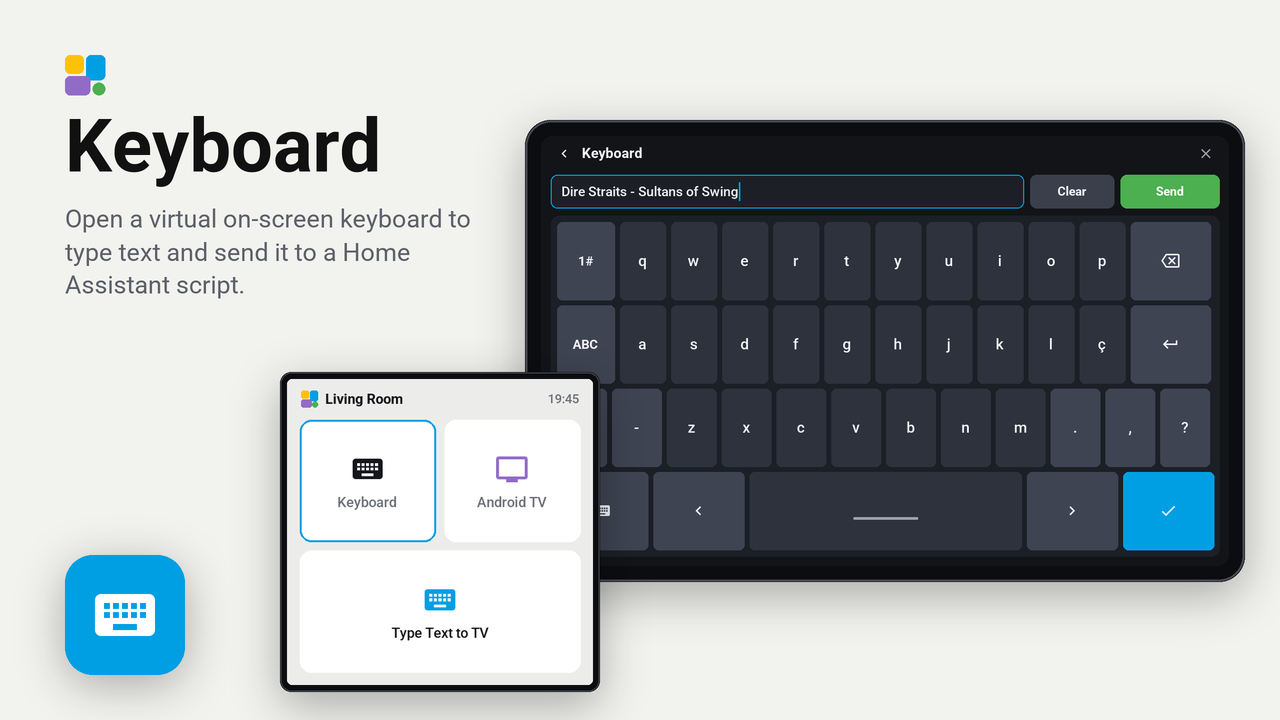
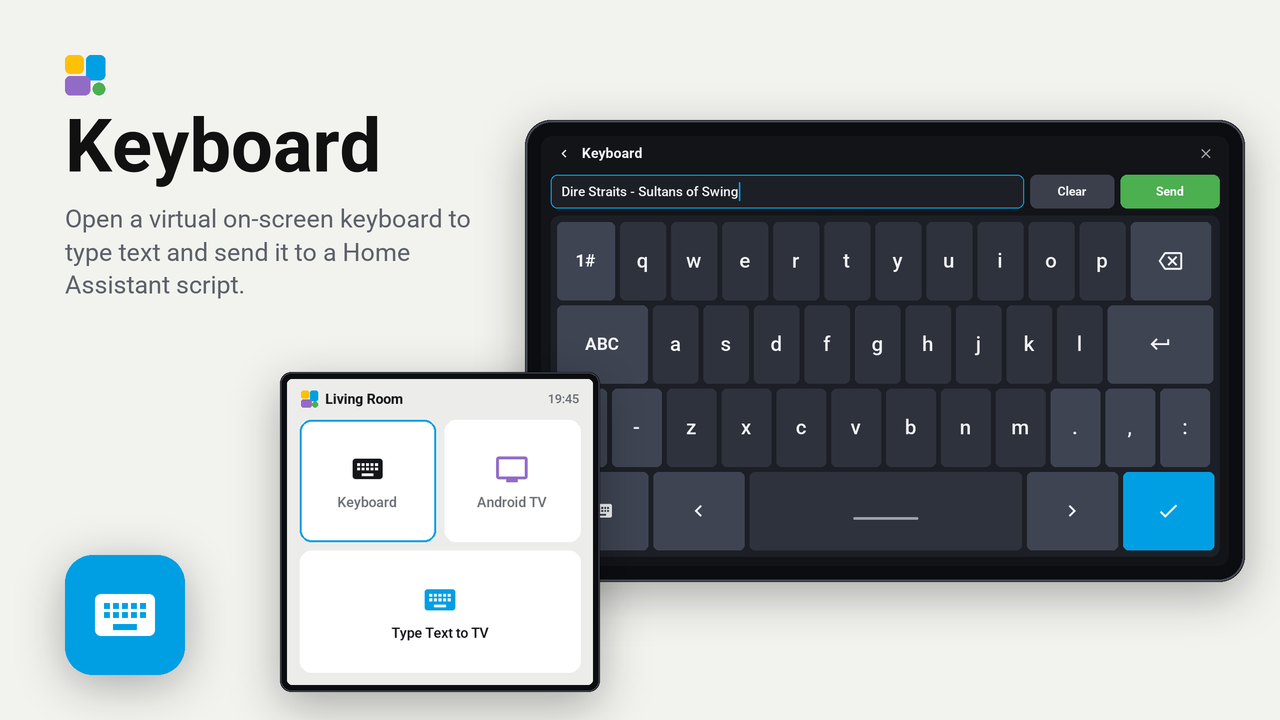
Switch keyboard layout to standard EN-US and update store.png with 2x key labels

diff --git a/components/keyboard/keyboard.cpp b/components/keyboard/keyboard.cpp
@@ -29,26 +29,26 @@ constexpr int KB_CTRL_REPEAT =
 constexpr int KB_KEY =
     LV_BUTTONMATRIX_CTRL_POPOVER;
 
-// Lowercase QWERTY button map (12 + 12 + 12 + 5 = 41 buttons).
+// Standard EN-US lowercase QWERTY button map (12 + 11 + 12 + 5 = 40 buttons).
 const char *const KB_MAP_LC[] = {
     "1#", "q", "w", "e", "r", "t", "y", "u", "i", "o", "p", MDI_BACKSPACE, "\n",
-    "ABC", "a", "s", "d", "f", "g", "h", "j", "k", "l", "ç", MDI_RETURN, "\n",
-    "_", "-", "z", "x", "c", "v", "b", "n", "m", ".", ",", "?", "\n",
+    "ABC", "a", "s", "d", "f", "g", "h", "j", "k", "l", MDI_RETURN, "\n",
+    "_", "-", "z", "x", "c", "v", "b", "n", "m", ".", ",", ":", "\n",
     MDI_KEYBOARD, MDI_LEFT, " ", MDI_RIGHT, MDI_CHECK, ""
 };
 
-// Uppercase QWERTY button map (12 + 12 + 12 + 5 = 41 buttons).
+// Standard EN-US uppercase QWERTY button map (12 + 11 + 12 + 5 = 40 buttons).
 const char *const KB_MAP_UC[] = {
     "1#", "Q", "W", "E", "R", "T", "Y", "U", "I", "O", "P", MDI_BACKSPACE, "\n",
-    "abc", "A", "S", "D", "F", "G", "H", "J", "K", "L", "Ç", MDI_RETURN, "\n",
-    "_", "-", "Z", "X", "C", "V", "B", "N", "M", ".", ",", "?", "\n",
+    "abc", "A", "S", "D", "F", "G", "H", "J", "K", "L", MDI_RETURN, "\n",
+    "_", "-", "Z", "X", "C", "V", "B", "N", "M", ".", ",", ":", "\n",
     MDI_KEYBOARD, MDI_LEFT, " ", MDI_RIGHT, MDI_CHECK, ""
 };
 
-// Control flags for the lowercase and uppercase maps.
+// Control flags for the EN-US lowercase and uppercase maps (12 + 11 + 12 + 5 = 40 buttons).
 const lv_buttonmatrix_ctrl_t KB_CTRL_ALPHA[] = {
     ctrl(KB_CTRL_MODE | 5), ctrl(KB_KEY | 4), ctrl(KB_KEY | 4), ctrl(KB_KEY | 4), ctrl(KB_KEY | 4), ctrl(KB_KEY | 4), ctrl(KB_KEY | 4), ctrl(KB_KEY | 4), ctrl(KB_KEY | 4), ctrl(KB_KEY | 4), ctrl(KB_KEY | 4), ctrl(KB_CTRL_REPEAT | 7),
-    ctrl(KB_CTRL_MODE | 5), ctrl(KB_KEY | 4), ctrl(KB_KEY | 4), ctrl(KB_KEY | 4), ctrl(KB_KEY | 4), ctrl(KB_KEY | 4), ctrl(KB_KEY | 4), ctrl(KB_KEY | 4), ctrl(KB_KEY | 4), ctrl(KB_KEY | 4), ctrl(KB_KEY | 4), ctrl(KB_CTRL_MODE | 7),
+    ctrl(KB_CTRL_MODE | 6), ctrl(KB_KEY | 3), ctrl(KB_KEY | 3), ctrl(KB_KEY | 3), ctrl(KB_KEY | 3), ctrl(KB_KEY | 3), ctrl(KB_KEY | 3), ctrl(KB_KEY | 3), ctrl(KB_KEY | 3), ctrl(KB_KEY | 3), ctrl(KB_CTRL_MODE | 7),
     ctrl(KB_CTRL_REPEAT | 1), ctrl(KB_CTRL_REPEAT | 1), ctrl(KB_KEY | 1), ctrl(KB_KEY | 1), ctrl(KB_KEY | 1), ctrl(KB_KEY | 1), ctrl(KB_KEY | 1), ctrl(KB_KEY | 1), ctrl(KB_KEY | 1), ctrl(KB_CTRL_REPEAT | 1), ctrl(KB_CTRL_REPEAT | 1), ctrl(KB_CTRL_REPEAT | 1),
     ctrl(KB_CTRL_MODE | 2), ctrl(KB_CTRL_REPEAT | 2), ctrl(6), ctrl(KB_CTRL_REPEAT | 2), ctrl(KB_CTRL_MODE | 2)
 };
@@ -56,8 +56,8 @@ const lv_buttonmatrix_ctrl_t KB_CTRL_ALPHA[] = {
 // Numbers and special symbols button map (11 + 12 + 12 + 5 = 40 buttons).
 const char *const KB_MAP_SPEC[] = {
     "1", "2", "3", "4", "5", "6", "7", "8", "9", "0", MDI_BACKSPACE, "\n",
-    "abc", "+", "&", "/", "*", "=", "%", "!", "?", "#", ":", ";", "\n",
-    "\\", "@", "$", "(", ")", "{", "}", "[", "]", "<", ">", "\"", "\n",
+    "abc", "+", "&", "/", "*", "=", "%", "!", "?", "#", "<", ">", "\n",
+    "\\", "@", "$", "(", ")", "{", "}", "[", "]", ";", "\"", "'", "\n",
     MDI_KEYBOARD, MDI_LEFT, " ", MDI_RIGHT, MDI_CHECK, ""
 };
 
@@ -186,7 +186,8 @@ void KeyboardTile::create(const tessera::TileContext &c) {
   lv_obj_set_style_text_align(icon_label_, LV_TEXT_ALIGN_CENTER, 0);
 
   // Render tile label below the icon.
-  text_label_ = ui::label(c.parent, Font::BODY, theme::MUTED);
+  Font lbl_font = (height_ >= ui::px(140)) ? Font::TITLE : Font::BODY;
+  text_label_ = ui::label(c.parent, lbl_font, theme::MUTED);
   std::string name = c.name && c.name[0] ? c.name : plugin_->text("tile_name");
   if (name.empty()) name = "Keyboard";
   ui::set_text(text_label_, name);
@@ -194,7 +195,7 @@ void KeyboardTile::create(const tessera::TileContext &c) {
   lv_obj_set_style_text_align(text_label_, LV_TEXT_ALIGN_CENTER, 0);
 
   int ih = ui::line_height(Font::ICON);
-  int th = ui::line_height(Font::BODY);
+  int th = ui::line_height(lbl_font);
   int gap = ui::px(4);
   int top = (height_ - ih - th - gap) / 2;
   if (top < 0) top = 0;

diff --git a/README.md b/README.md
@@ -13,9 +13,9 @@ A [Tessera (ESP Screen Manager)](https://github.com/MaxGramser/esp-screen-manage
 - **Responsive Full-Width Virtual Keyboard Card (`wide: true`):**
   - **Landscape (`width > height`):** Places the single-line text input box, **Clear**, and **Send** buttons along a single compact top row so the keyboard matrix utilizes the full screen width and maximum vertical height.
   - **Portrait (`height >= width`):** Stacks the text input box on the first row, **Clear** and **Send** buttons on the second row, and the keyboard matrix below.
-- **Custom LVGL Button Maps & Material Design Icons:**
-  - Includes Lowercase (`abc`), Uppercase (`ABC`), and Numbers/Symbols (`1#`) layouts with `ç` / `Ç` support.
-  - Uses a composite LVGL fallback font combining `Font::TITLE` with `Font::ICON_SMALL` so Material Design Icons (`backspace-outline`, `keyboard-return`, `keyboard-outline`, `chevron-left`, `chevron-right`, `check`) render crisply on every key without requiring FontAwesome symbols.
+- **Custom LVGL EN-US Button Maps & Material Design Icons:**
+  - Standard **EN-US QWERTY** layouts for Lowercase (`abc`), Uppercase (`ABC`), and Numbers/Symbols (`1#`).
+  - Automatically scales key letters (`Font::VALUE`, ~2x larger than `Font::TITLE`) and key icons (`Font::ICON`, ~2x larger than `Font::ICON_SMALL`) on large displays (`>= 700px`), using a composite LVGL fallback font so Material Design Icons (`backspace-outline`, `keyboard-return`, `keyboard-outline`, `chevron-left`, `chevron-right`, `check`) render crisply on every key without requiring FontAwesome symbols.
 - **Home Assistant Script Integration:** Calls your configured Home Assistant `script` entity and passes the typed string in the `input_text` field (`{"input_text": "<typed text>"}`).
 
 ---
